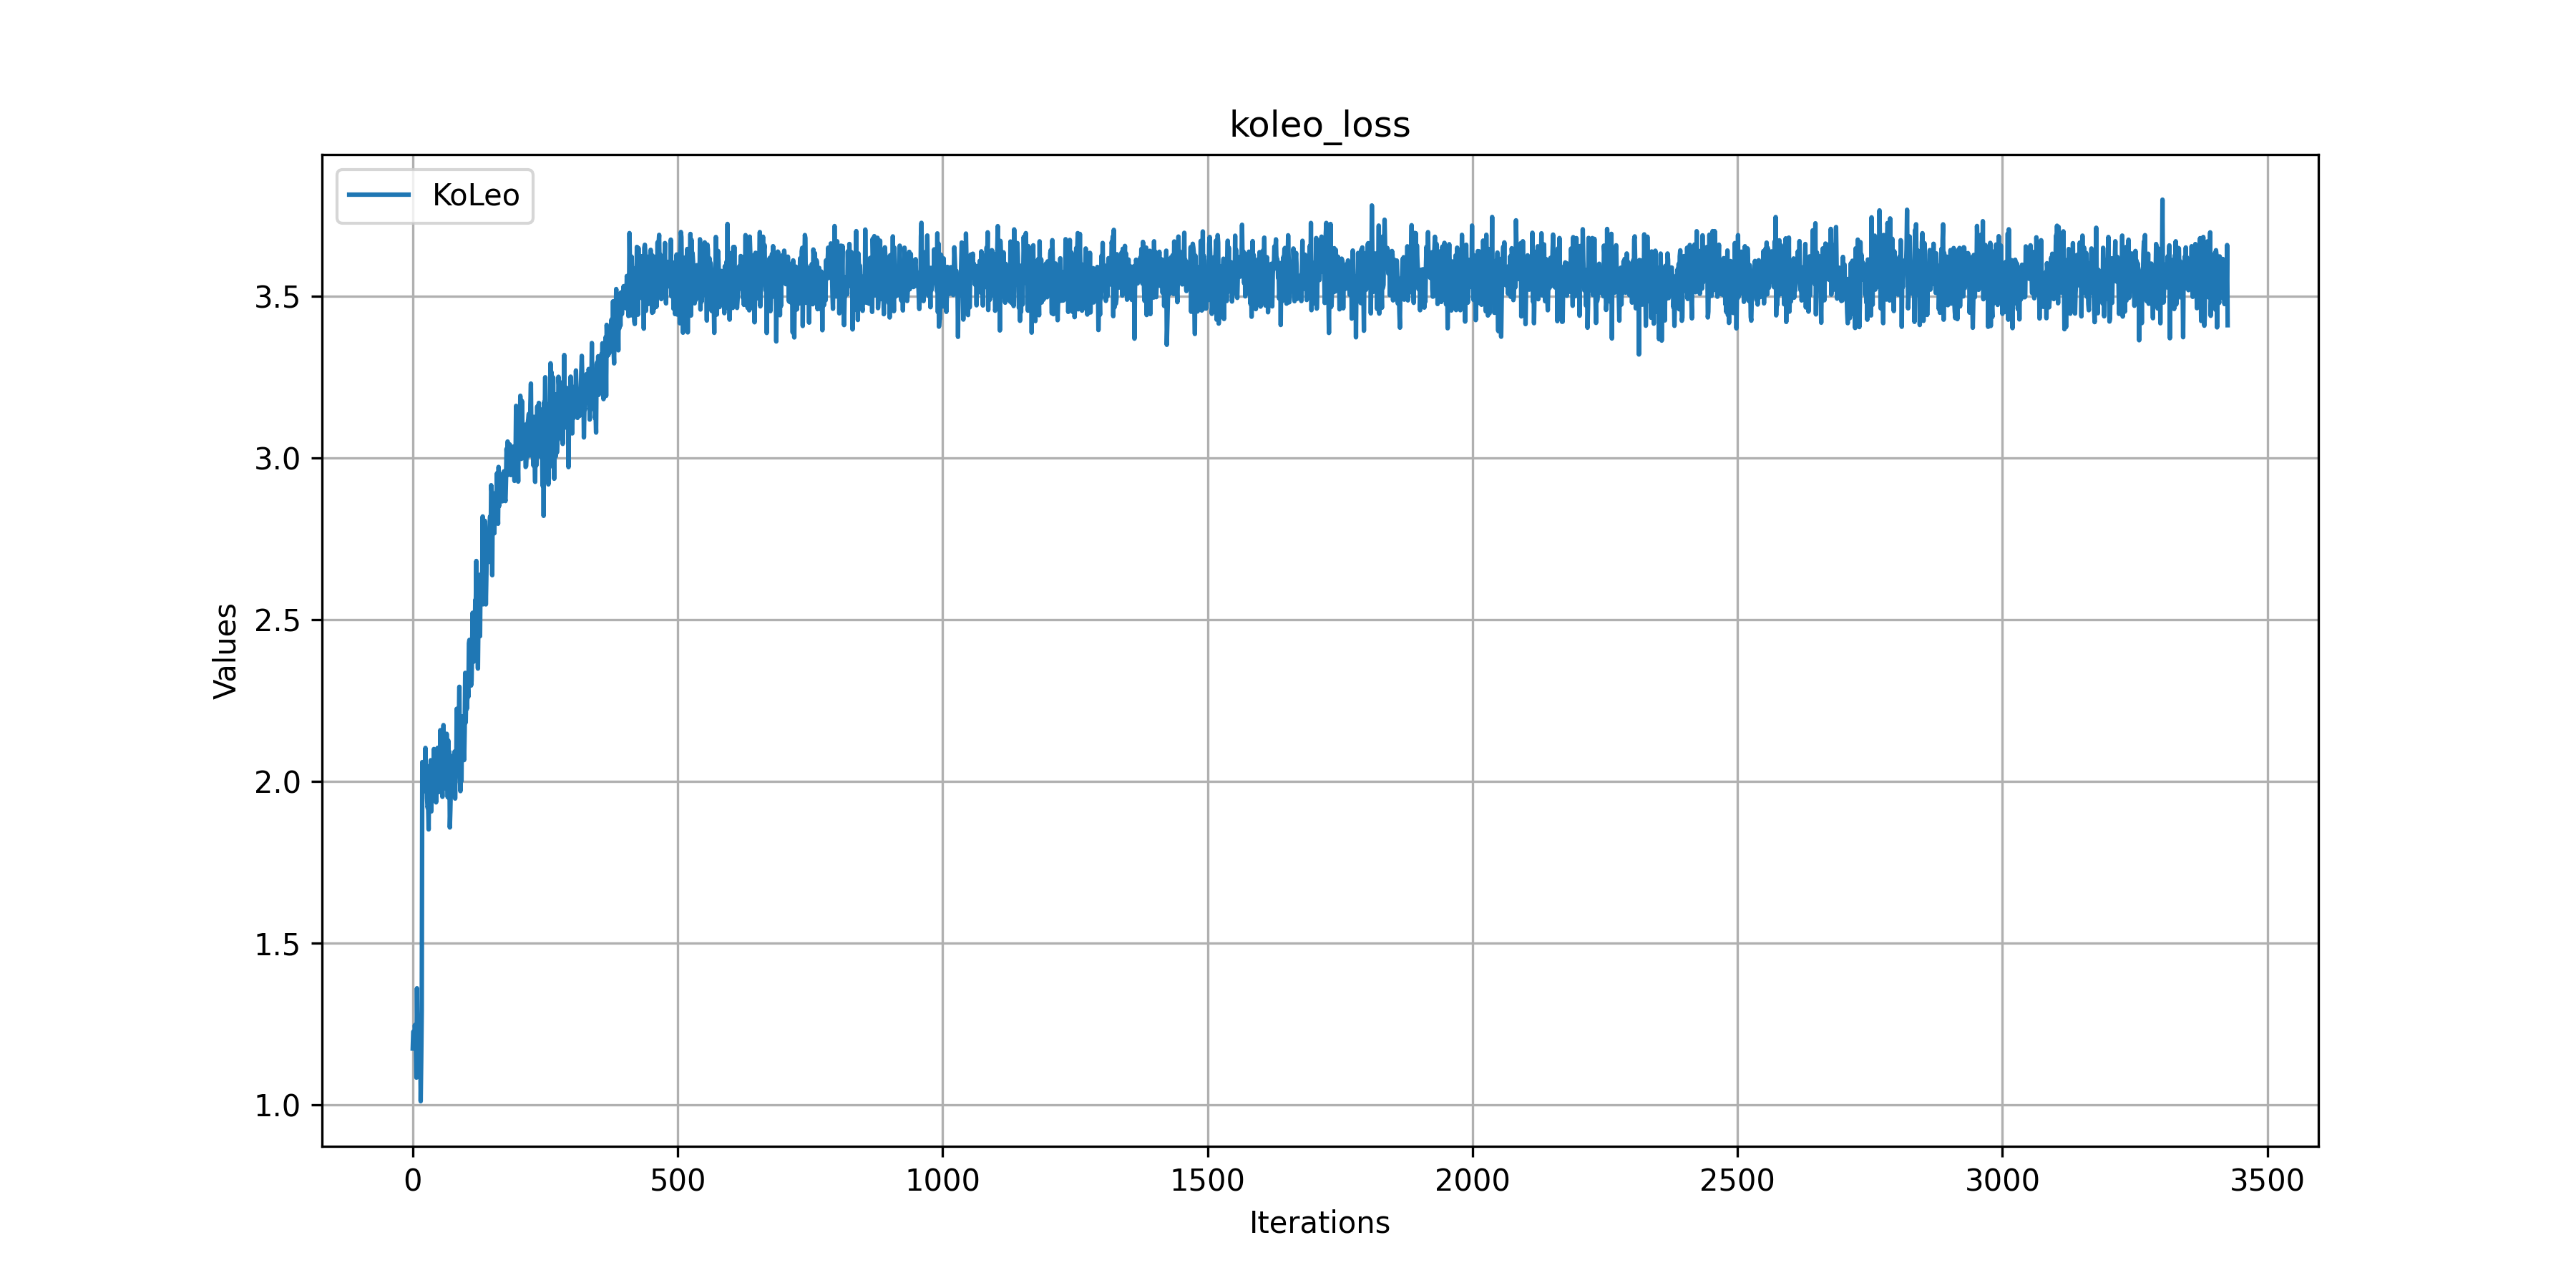
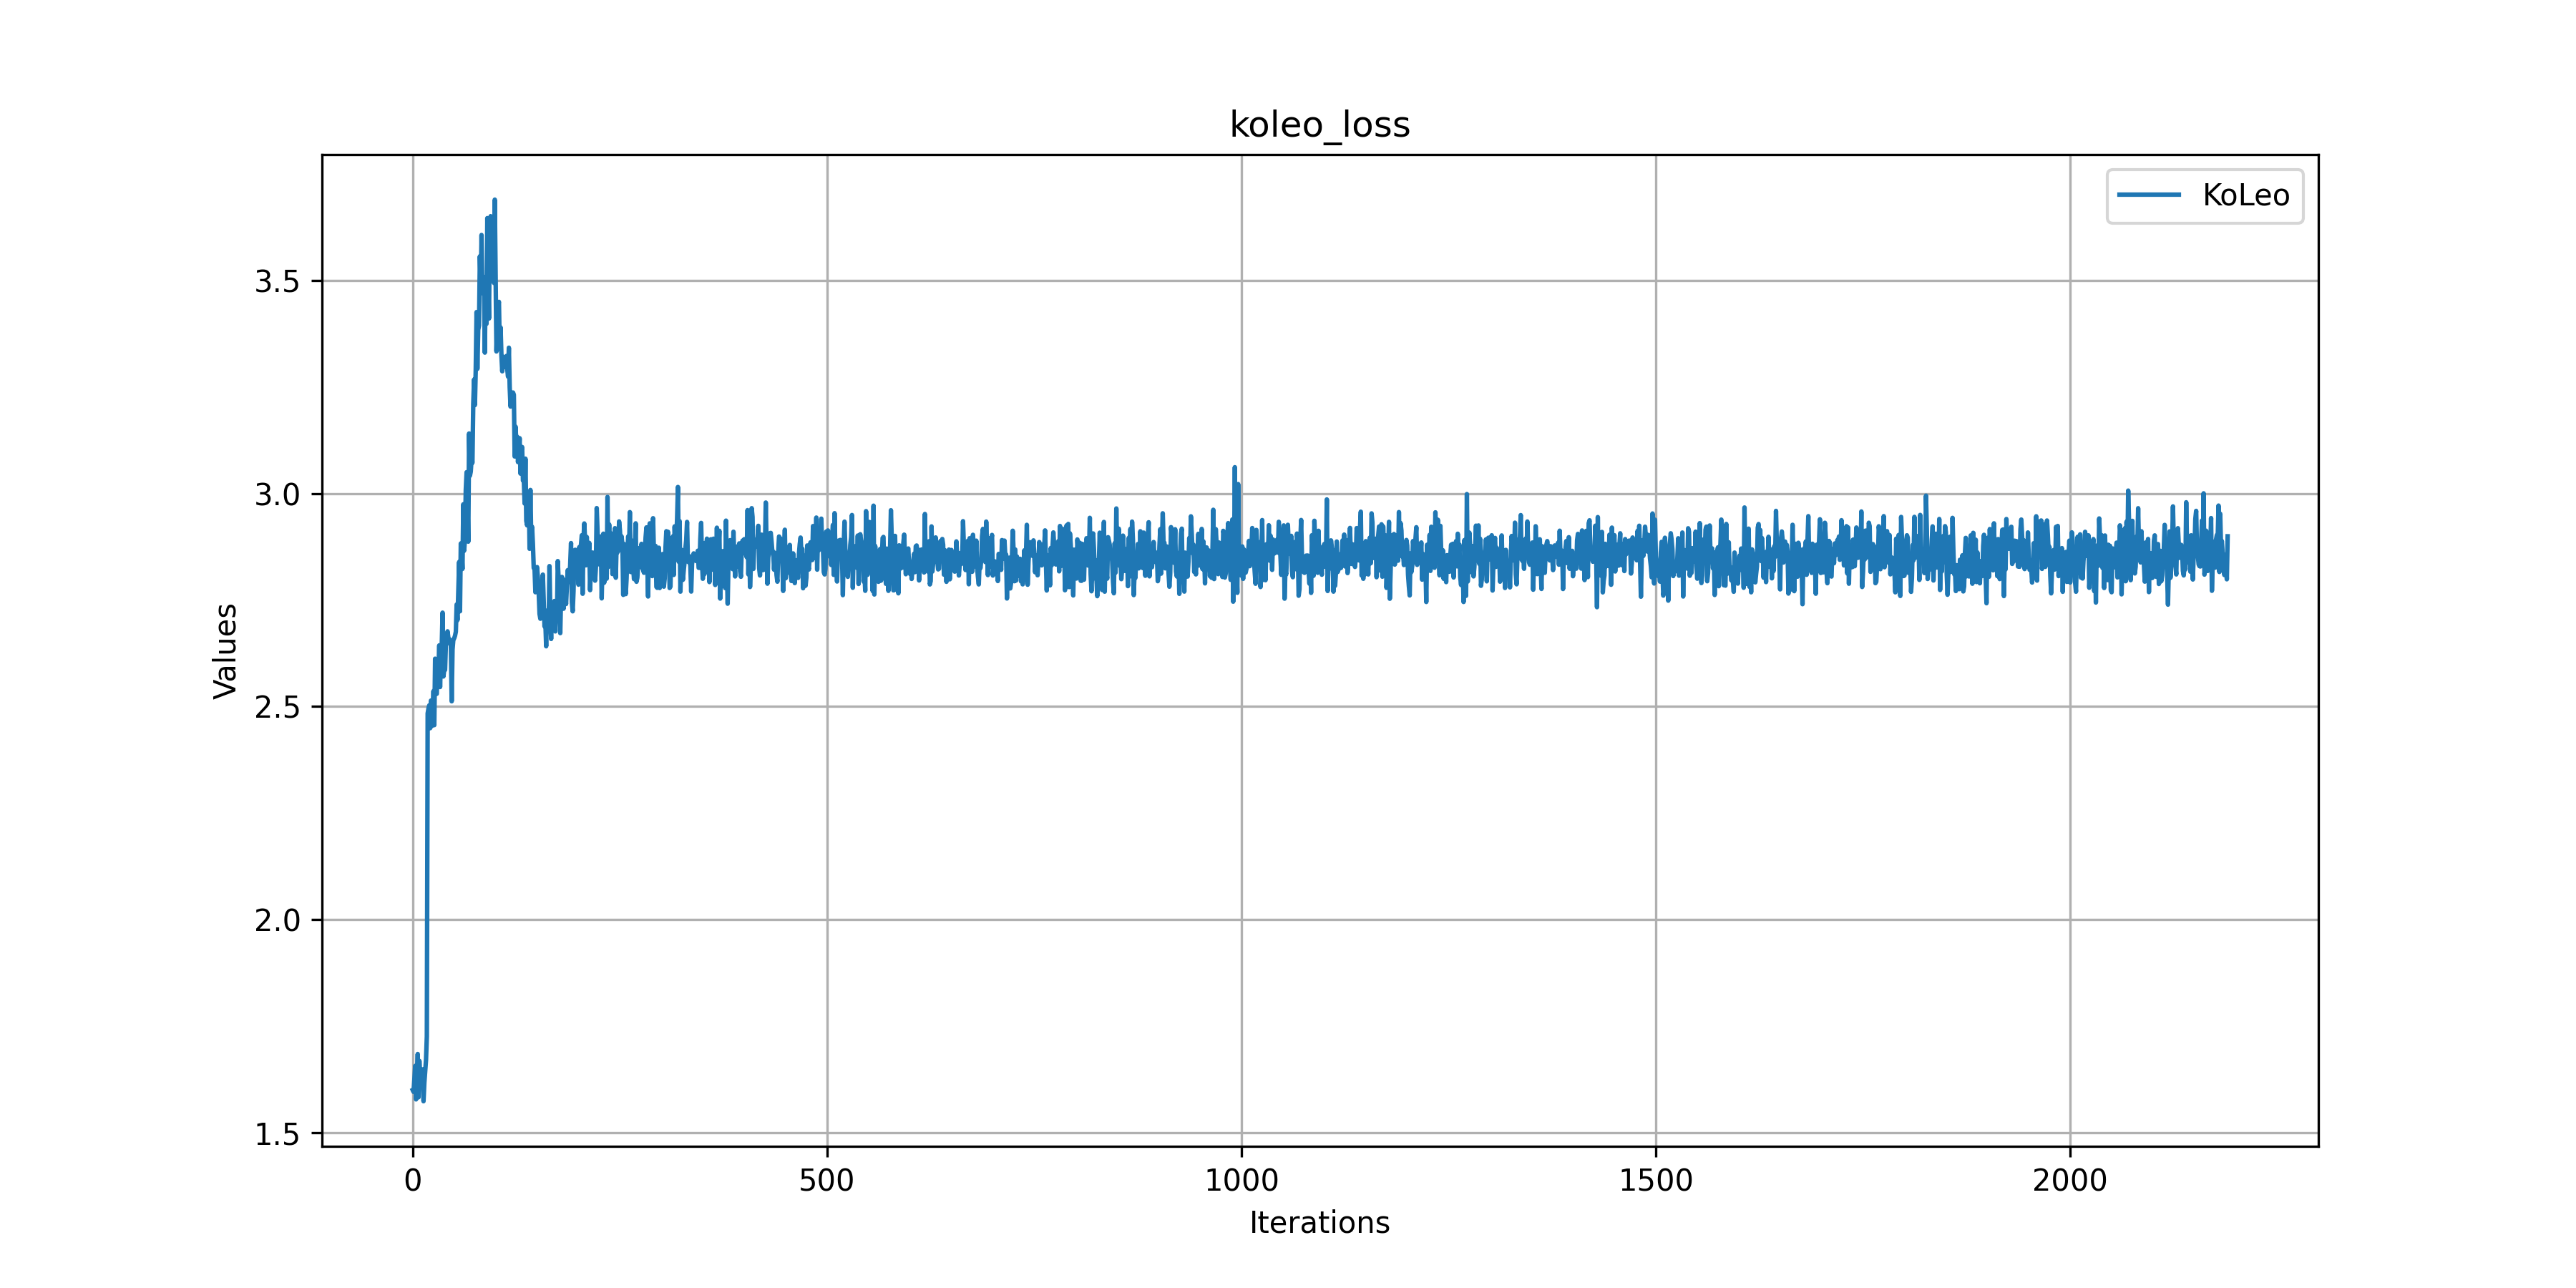
small modifications in hyperparameters that make a big difference

diff --git a/sonar_data.py b/sonar_data.py
@@ -25,7 +25,7 @@ class NormalizeTransform(torch.nn.Module):
 
 class GaussianNoise(torch.nn.Module):
     """Adds Gaussian noise to the tensor to simulate sonar speckle/electronic noise."""
-    def __init__(self, mean=0.0, sigma=0.1, p=0.5):
+    def __init__(self, mean=0.0, sigma=(0.01, 0.05), p=0.5):
         super().__init__()
         self.mean = mean
         self.sigma = sigma
@@ -35,7 +35,9 @@ class GaussianNoise(torch.nn.Module):
         if torch.rand(1) >= self.p:
             return img
 
-        noise = torch.randn_like(img) * self.sigma + self.mean
+        sigma = random.random() * (self.sigma[1] - self.sigma[0]) + self.sigma[0]
+        noise = torch.randn_like(img) * sigma + self.mean
+
         return img + noise
 
 
@@ -151,8 +153,6 @@ class SonarDataTransform:
     """
     def __init__(
         self,
-        global_crops_scale=(0.4, 1.0),
-        local_crops_scale=(0.3, 0.4),
         local_crops_number=8,
         global_crops_size=224,
         local_crops_size=96,
@@ -160,23 +160,20 @@ class SonarDataTransform:
         self.local_crops_number = local_crops_number
 
         # We use RandomResizedCrop to force the model to match features across scales.
-        self.geo_global = v2.Compose([
-            v2.RandomHorizontalFlip(p=0.5),  # No vertical flips since it is impossible for shadows to face sensor
-            v2.RandomResizedCrop(global_crops_size, scale=global_crops_scale, antialias=True)
-        ])
-        self.geo_local = v2.Compose([
-            v2.RandomHorizontalFlip(p=0.5),  # No vertical flips since it is impossible for shadows to face sensor
-            v2.RandomResizedCrop(local_crops_size, scale=local_crops_scale, antialias=True)
-        ])
+        self.global_crop = v2.RandomCrop(global_crops_size)
+        self.local_crop = v2.RandomCrop(local_crops_size)
 
-        # Brightness corresponds to sonar gain (intensity)
-        # Contrast corresponds to dynamic range of reciever
+        # Note: Blur shouldn't be used with sonar imagery since it breaks the physics of acoustics.
+        # If you want to make the image or objects unclear, increase the noise instead to remain
+        # accurate to the physics. (Interference is a more accurate way to model "blur" or loss of clarity)
         self.augmentations = v2.Compose([
-            v2.RandomApply([
-                v2.ColorJitter(brightness=0.4, contrast=0.4, saturation=0, hue=0)
-            ], p=0.3),
-            v2.RandomApply([v2.GaussianBlur(kernel_size=5, sigma=(0.1, 1.5))], p=0.2),
-            GaussianNoise(sigma=0.05, p=0.3),  # Gaussian Noise to simulate speckle noise
+            v2.RandomHorizontalFlip(p=0.5),  # No vertical flips since it is impossible for shadows to face sensor
+            v2.RandomApply([v2.ColorJitter(
+                brightness=(0.05, 0.2),  # Brightness corresponds to sonar gain (intensity)
+                contrast=(0.05, 0.2),    # Contrast corresponds to dynamic range of reciever
+                saturation=0, hue=0      # Data is only 1 channel and the concept of colors doesn't apply to sonar
+            )], p=0.8),
+            GaussianNoise(sigma=(0.005, 0.05), p=0.5),  # Gaussian Noise to simulate speckle noise
         ])
 
         self.normalize = NormalizeTransform()
@@ -188,19 +185,19 @@ class SonarDataTransform:
         # --- Global Crops (2 views) ---
         # Used by both Teacher and Student
         for _ in range(2):
-            geo_aug = self.geo_global(image)
-            teacher_crops.append(self.normalize(geo_aug.clone()))
+            crop_aug = self.global_crop(image)
+            teacher_crops.append(self.normalize(crop_aug.clone()))
 
-            full_aug = self.augmentations(geo_aug)
+            full_aug = self.augmentations(crop_aug)
             student_crops.append(self.normalize(full_aug))
 
         # --- Local Crops (8 views) ---
         # Used by Student only to encourage local-to-global correspondence
         for _ in range(self.local_crops_number):
-            geo_aug = self.geo_local(image)
-            teacher_crops.append(self.normalize(geo_aug.clone()))
+            crop_aug = self.local_crop(image)
+            teacher_crops.append(self.normalize(crop_aug.clone()))
 
-            full_aug = self.augmentations(geo_aug)
+            full_aug = self.augmentations(crop_aug)
             student_crops.append(self.normalize(full_aug))
 
         return {

diff --git a/inference.py b/inference.py
@@ -11,7 +11,7 @@ import matplotlib.pyplot as plt
 from dino import ConvNeXtTiny
 from sonar_data import NormalizeTransform, SonarDataset
 
-LOG_FILE = "logs/1768914485.2876122.log"
+LOG_FILE = "logs/1769267466.450234.log"
 
 FIGURES_DIR = "figures/"
 RESULTS_DIR = "results/"
@@ -19,7 +19,6 @@ WEIGHTS_DIR = "weights/"
 WEIGHT_FILE = "checkpoint_latest.pth"
 
 N_TILES = 100
-FEATURE_WEIGHTS = (0.1, 0.1, 1)
 
 
 def save_figure(graphs, labels, name, threshold=None):
@@ -199,13 +198,13 @@ if __name__ == "__main__":
         gray_vis = (255 * np.clip(img, 0, 1)).astype(np.uint8)
         gray_vis = cv2.cvtColor(gray_vis, cv2.COLOR_GRAY2BGR)
 
-        # Transform ALL pixels of this image
+        # Transform ALL features of this image to pixel space
         pca_patch = upsampled_patch.reshape(-1, upsampled_patch.shape[-1])
         pca_patch = pca.transform(pca_patch) # (H*W, 3)
         pca_patch = pca_patch.reshape(patch_dim, patch_dim, 3)
 
-        # Sigmoid & Scaling
-        pca_patch = 0.6 * pca_patch + 0.4 * img.reshape((patch_dim, patch_dim, 1))
+        # Sigmoid & Scaling for more vibrant colors
+        pca_patch = 0.7 * pca_patch + 0.3 * img.reshape((patch_dim, patch_dim, 1))
         pca_patch = 1.0 / (1.0 + np.exp(-2 * pca_patch))
         pca_patch = (255 * pca_patch).astype(np.uint8)
 

diff --git a/train.py b/train.py
@@ -79,9 +79,9 @@ class Trainer:
 
         # --- Hyperparameters ---
         self.batch_size = 50  # Max possible per GPU
-        self.effective_batch_size = self.output_dim  # Desired batch size (2 * output_dim / [world_size = 2] = output_dim)
+        self.effective_batch_size = self.output_dim  # Desired batch size
         self.accum_iter = self.effective_batch_size // self.batch_size  # Number of gradient accumulation steps
-        self.base_lr = 0.0005 * self.batch_size * self.world_size / 256  # LINEAR SCALING RULE: Scale LR by world size and batch size
+        self.base_lr = 0.0010
         self.min_lr = 1e-6
         self.weight_decay = 0.04
         self.epochs = 100
@@ -96,8 +96,8 @@ class Trainer:
 
         self.w_dino = 1.0
         self.w_ibot = 1.0
-        self.w_gram = 1.0
-        self.w_koleo = 0.0001
+        self.w_gram = 0.5
+        self.w_koleo = 0.1
 
         # --- Masking, Data & Sampler ---
         self.mask_generator = MaskingGenerator(input_size=(224, 224), stride_size=self.stride_size, mask_ratio=0.5)
@@ -329,6 +329,7 @@ class Trainer:
             if (i + 1) % self.accum_iter == 0:
                 self.scaler.unscale_(self.optimizer)
                 torch.nn.utils.clip_grad_norm_(self.student.parameters(), max_norm=1.0)
+                torch.nn.utils.clip_grad_norm_(self.student_ibot_head.parameters(), max_norm=1.0)
                 self.scaler.step(self.optimizer)
                 self.scaler.update()
                 self.optimizer.zero_grad(set_to_none=True)

diff --git a/losses.py b/losses.py
@@ -62,7 +62,7 @@ class Centering(nn.Module):
     DINOv1-style Loss: Centering + Softmax. 
     More stable for small batch sizes (B < K).
     """
-    def __init__(self, out_dim, student_temp=0.1, center_momentum=0.9):
+    def __init__(self, out_dim, student_temp=0.1, center_momentum=0.996):
         super().__init__()
         self.student_temp = student_temp
         self.center_momentum = center_momentum
@@ -161,7 +161,7 @@ class GramLoss(nn.Module):
         super().__init__()
         self.mse = nn.MSELoss()
 
-    def forward(self, student_patches, teacher_patches):        
+    def forward(self, student_patches, teacher_patches):
         student_patches = F.normalize(student_patches, dim=-1)
         teacher_patches = F.normalize(teacher_patches, dim=-1)
 